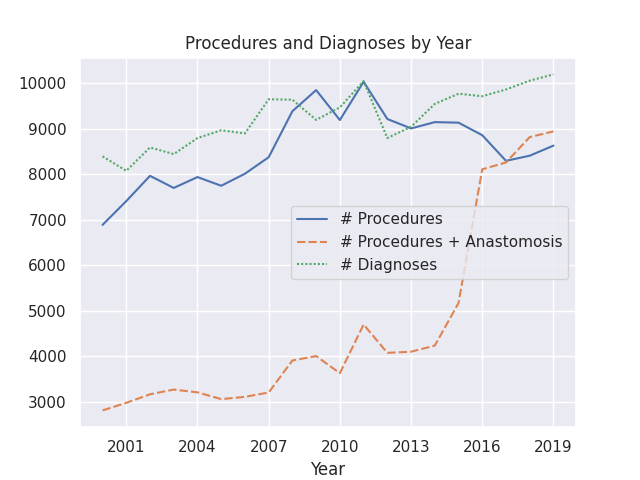
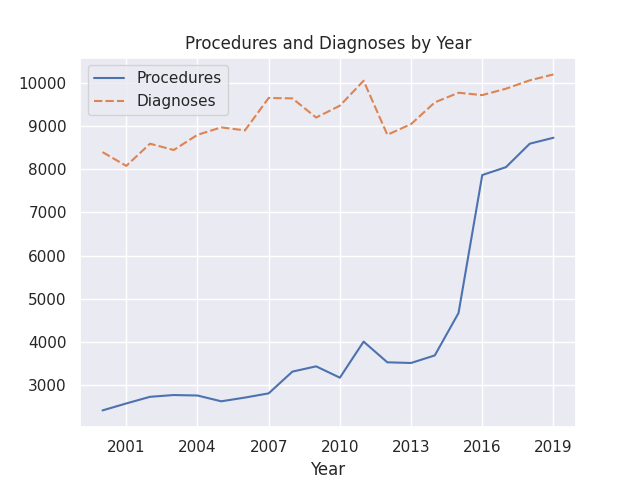
Reported results #2

diff --git a/src/nistd/reporting/fig1.py b/src/nistd/reporting/fig1.py
@@ -1,123 +1,44 @@
 import pandas as pd
-from nistd.dataProcessing import (
-    get_dtypes,
-    get_proc_cols,
-    get_dx_cols,
-    ProcClass,
-    diagnosis_codes,
-    anastomotic_leak_codes,
-    infection_codes,
-    procedure_only_codes,
-)
+from nistd.dataProcessing.firstPassFilter import ParallelFilter
+from concurrent.futures import ProcessPoolExecutor
+from tqdm import tqdm
+import glob
 from nistd import logging
 import seaborn as sns
 import matplotlib.pyplot as plt
 from matplotlib.ticker import MaxNLocator
-import glob
-import os
-
-
-def buildcache():
-    proc_df = pd.DataFrame()
-    proc_anast_df = pd.DataFrame()
-    dx_df = pd.DataFrame()
-    infection_df = pd.DataFrame()
-    leak_df = pd.DataFrame()
-
-    all_proc_codes = (
-        ProcClass.LAPAROSCOPIC.getProcCodes() + ProcClass.OPEN.getProcCodes()
-    )
-    all_anastomosis_codes = (
-        ProcClass.LAPAROSCOPIC.getAnastomosisCodes()
-        + ProcClass.OPEN.getAnastomosisCodes()
-    )
-
-    for fname in glob.glob("./data/*.dta"):
-        logging.info(fname)
-
-        cols = next(pd.read_stata(fname, chunksize=1)).columns
-        proc_cols = get_proc_cols(cols)
-        dx_cols = get_dx_cols(cols)
-        used_cols = ["YEAR"] + proc_cols + dx_cols
-
-        for chunk in pd.read_stata(fname, columns=used_cols, chunksize=10**5):
-            proc_chunk = chunk[chunk[proc_cols].isin(all_proc_codes).any("columns")]
-            proc_anast_chunk = proc_chunk[
-                proc_chunk[proc_cols].isin(all_anastomosis_codes).any("columns")
-            ]
-
-            # Modified inclusion criteria: also include certain procedure codes w/out anastomosis
-            proc_only_chunk = chunk[
-                chunk[proc_cols].isin(procedure_only_codes).any("columns")
-            ]
-            proc_anast_chunk = proc_anast_chunk.append(proc_only_chunk)
-
-            dx_chunk = chunk[chunk[dx_cols].isin(diagnosis_codes).any("columns")]
-
-            infection_chunk = proc_chunk[
-                proc_chunk[dx_cols].isin(infection_codes).any("columns")
-            ]
-            leak_chunk = proc_chunk[
-                proc_chunk[dx_cols].isin(anastomotic_leak_codes).any("columns")
-            ]
-
-            proc_df = proc_df.append(proc_chunk)
-            proc_anast_df = proc_anast_df.append(proc_anast_chunk)
-            dx_df = dx_df.append(dx_chunk)
-            infection_df = infection_df.append(infection_chunk)
-            leak_df = leak_df.append(leak_chunk)
-
-    def organaze_as_counts(df: pd.DataFrame, count_col_name: str):
-        counts = df["YEAR"].value_counts().sort_index()
-        counts = counts.reset_index()
-        counts.columns = ["Year", count_col_name]
-
-        return counts
-
-    proc_counts = organaze_as_counts(proc_df, "# Procedures")
-    proc_anast_counts = organaze_as_counts(proc_anast_df, "# Procedures + Anastomosis")
-    dx_counts = organaze_as_counts(dx_df, "# Diagnoses")
-    infection_counts = organaze_as_counts(
-        infection_df, "# Infections (among procedures)"
-    )
-    leak_counts = organaze_as_counts(leak_df, "# Anastomotic leaks (among procedures)")
-
-    combined_counts = pd.merge(proc_counts, proc_anast_counts, how="left", on="Year")
-    combined_counts = pd.merge(combined_counts, dx_counts, how="left", on="Year")
-
-    complication_counts = pd.merge(infection_counts, leak_counts, how="left", on="Year")
-
-    combined_counts.to_csv("cache/fig1counts.csv", index=False)
-    complication_counts.to_csv("cache/fig1complicationcounts.csv", index=False)
-
-    return combined_counts, complication_counts
-
 
 if __name__ == "__main__":
-    if not os.path.exists("cache/fig1counts.csv") or not os.path.exists(
-        "cache/fig1complicationcounts.csv"
-    ):
-        logging.info("Cache not found, rebuilding...")
-        combined_counts, complication_counts = buildcache()
-    else:
-        logging.info("Reusing cache found at cache/fig1counts.csv")
-        combined_counts = pd.read_csv("cache/fig1counts.csv")
-        complication_counts = pd.read_csv("cache/fig1complicationcounts.csv")
+    pf = ParallelFilter()
 
-    combined_counts = combined_counts.set_index("Year")
-    complication_counts = complication_counts.set_index("Year")
+    with ProcessPoolExecutor(max_workers=16) as executor:
+        fnames = glob.glob("data-slow/*.parquet")
+        res = list(
+            tqdm(
+                executor.map(pf.single_file_yearcount, fnames),
+                total=len(fnames),
+            )
+        )
+
+    allcounts_procs = pd.concat([proc_df for proc_df, _ in res]).rename(
+        columns={"Count": "Procedures"}
+    )
+    allcounts_dx = pd.concat([dx_df for _, dx_df in res]).rename(
+        columns={"Count": "Diagnoses"}
+    )
+
+    allcounts_procs = allcounts_procs.groupby("Year").sum()
+    allcounts_dx = allcounts_dx.groupby("Year").sum()
+
+    allcounts = pd.merge(
+        allcounts_procs, allcounts_dx, how="left", left_index=True, right_index=True
+    )
 
     sns.set_theme()
-    ax = sns.lineplot(data=combined_counts)
-    # ax.set_xticklabels(ax.get_xticklabels(), rotation=30)
+    ax = sns.lineplot(data=allcounts)
     ax.xaxis.set_major_locator(MaxNLocator(integer=True))
     ax.set_title("Procedures and Diagnoses by Year")
 
     plt.savefig("results/fig1.png")
-    plt.clf()
 
-    ax = sns.lineplot(data=complication_counts)
-    ax.xaxis.set_major_locator(MaxNLocator(integer=True))
-    ax.set_title("Complications by Year")
-
-    plt.savefig("results/fig1b.png")
+    print("[+] Done")

diff --git a/src/nistd/dataProcessing/firstPassFilter.py b/src/nistd/dataProcessing/firstPassFilter.py
@@ -38,11 +38,8 @@ class ParallelFilter:
         logging.info(f"[*] Procedure only codes: ({len(self.all_proconly_codes)}):")
         logging.info(self.all_proconly_codes)
 
-    def handle_single_file(self, fname):
-        df = pd.read_parquet(fname)
-
+    def _get_relevant_procedures(self, df):
         proc_cols = get_proc_cols(df.columns)
-        dx_cols = get_dx_cols(df.columns)
 
         relevant = df[df[proc_cols].isin(self.all_proc_codes).any(axis="columns")]
         relevant = relevant[
@@ -57,9 +54,40 @@ class ParallelFilter:
             ]
         )
 
+        return relevant
+
+    def single_file_filter(self, fname):
+        df = pd.read_parquet(fname)
+
+        dx_cols = get_dx_cols(df.columns)
+
+        relevant = self._get_relevant_procedures(df)
         relevant = relevant[relevant[dx_cols].isin(diagnosis_codes).any(axis="columns")]
 
         return relevant
+
+    def single_file_yearcount(self, fname):
+        """
+        For building fig 1
+        """
+        df = pd.read_parquet(fname)
+
+        dx_cols = get_dx_cols(df.columns)
+
+        relevant_procs = self._get_relevant_procedures(df)
+        relevant_diagnoses = df[df[dx_cols].isin(diagnosis_codes).any(axis="columns")]
+
+        def organaze_as_counts(df: pd.DataFrame):
+            counts = df["YEAR"].value_counts().sort_index()
+            counts = counts.reset_index()
+            counts.columns = ["Year", "Count"]
+
+            return counts
+
+        proc_counts = organaze_as_counts(relevant_procs)
+        dx_counts = organaze_as_counts(relevant_diagnoses)
+
+        return proc_counts, dx_counts
 
 
 if __name__ == "__main__":
@@ -69,7 +97,7 @@ if __name__ == "__main__":
         fnames = glob.glob("data-slow/*.parquet")
         res = list(
             tqdm(
-                executor.map(parallel_filter.handle_single_file, fnames),
+                executor.map(parallel_filter.single_file_filter, fnames),
                 total=len(fnames),
             )
         )
